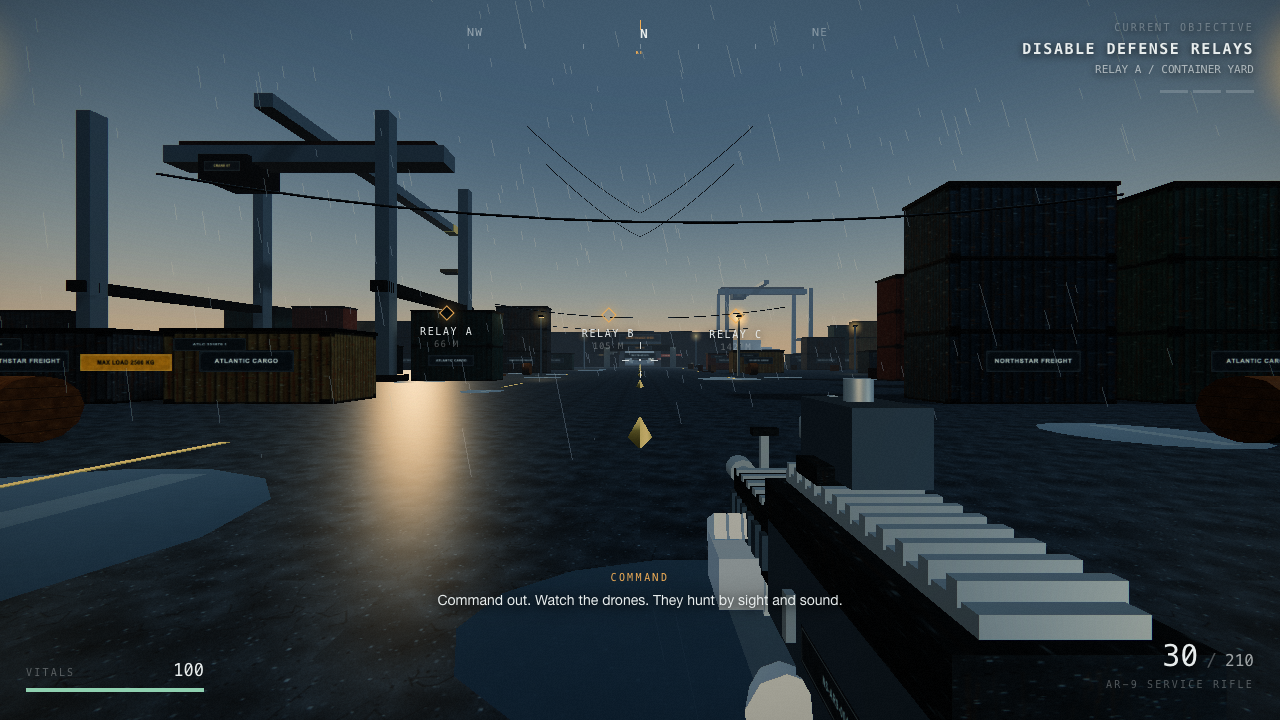
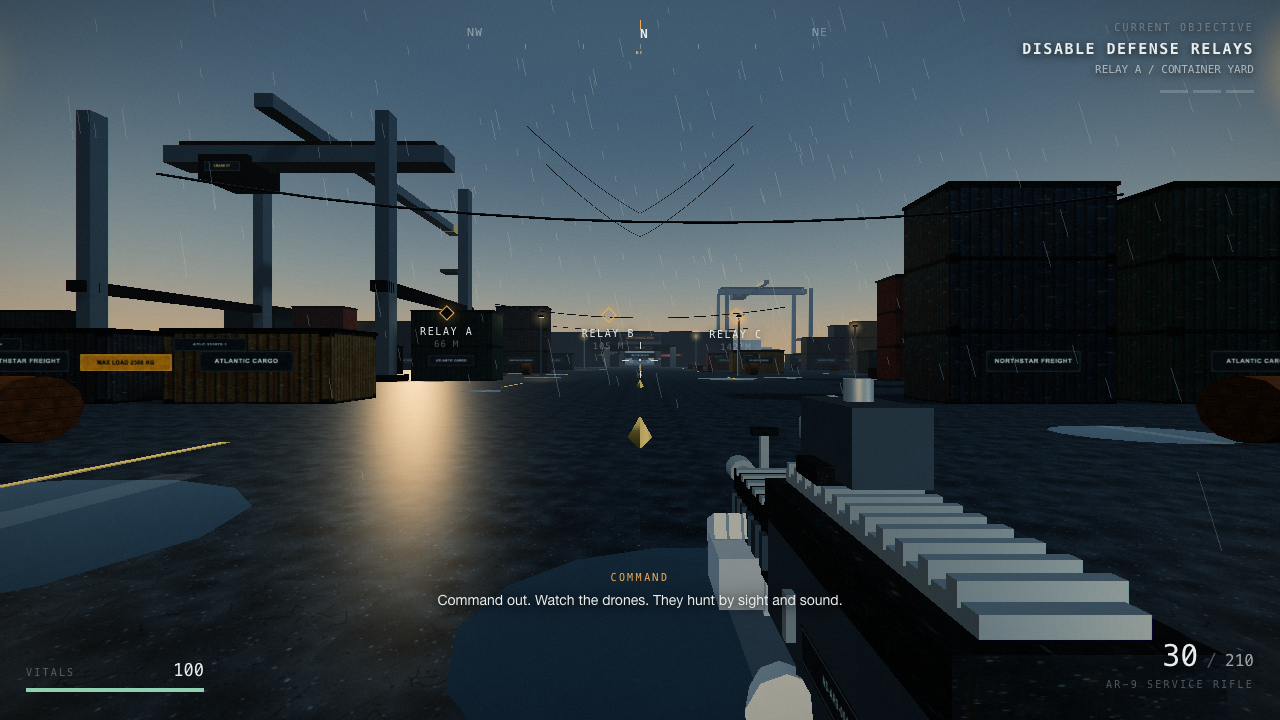
Adopt the MIT License for the original work

diff --git a/index.html b/index.html
@@ -2,6 +2,33 @@
 <html lang="en">
 <head>
 <!--
+PROJECT LICENSE - HARBOR BLACKOUT original code, text and generated assets.
+The full MIT License below is also shipped as LICENSE at the repository root.
+
+MIT License
+
+Copyright (c) 2026 topway-ai
+
+Permission is hereby granted, free of charge, to any person obtaining a copy
+of this software and associated documentation files (the "Software"), to deal
+in the Software without restriction, including without limitation the rights
+to use, copy, modify, merge, publish, distribute, sublicense, and/or sell
+copies of the Software, and to permit persons to whom the Software is
+furnished to do so, subject to the following conditions:
+
+The above copyright notice and this permission notice shall be included in all
+copies or substantial portions of the Software.
+
+THE SOFTWARE IS PROVIDED "AS IS", WITHOUT WARRANTY OF ANY KIND, EXPRESS OR
+IMPLIED, INCLUDING BUT NOT LIMITED TO THE WARRANTIES OF MERCHANTABILITY,
+FITNESS FOR A PARTICULAR PURPOSE AND NONINFRINGEMENT. IN NO EVENT SHALL THE
+AUTHORS OR COPYRIGHT HOLDERS BE LIABLE FOR ANY CLAIM, DAMAGES OR OTHER
+LIABILITY, WHETHER IN AN ACTION OF CONTRACT, TORT OR OTHERWISE, ARISING FROM,
+OUT OF OR IN CONNECTION WITH THE SOFTWARE OR THE USE OR OTHER DEALINGS IN THE
+SOFTWARE.
+-->
+
+<!--
 THIRD-PARTY NOTICE - three.js r149 (UMD build), MIT License.
 Bundled verbatim below. Original license also shipped in src/vendor/THREE_LICENSE.txt
 and THIRD_PARTY_NOTICES.md. All game code and generated art are original.

diff --git a/src/build.js b/src/build.js
@@ -13,6 +13,7 @@ const template = fs.readFileSync(path.join(srcDir, 'index.template.html'), 'utf8
 const css = fs.readFileSync(path.join(srcDir, 'styles.css'), 'utf8');
 const vendor = fs.readFileSync(path.join(srcDir, 'vendor', 'three.min.js'), 'utf8');
 const license = fs.readFileSync(path.join(srcDir, 'vendor', 'THREE_LICENSE.txt'), 'utf8');
+const projectLicense = fs.readFileSync(path.join(root, 'LICENSE'), 'utf8');
 
 const modules = fs.readdirSync(moduleDir)
   .filter(f => f.endsWith('.js'))
@@ -23,7 +24,17 @@ function assertNoClosingTag(code, name) {
   if (/<\/script/i.test(code)) throw new Error('Unsafe closing script tag in ' + name);
 }
 
+/* The single-file build is a standalone copy of the work, so it carries both
+   the project MIT notice and the verbatim third-party MIT notice. LICENSE at
+   the repository root is the single source of truth for the project text. */
 const notices = [
+  '<!--',
+  'PROJECT LICENSE - HARBOR BLACKOUT original code, text and generated assets.',
+  'The full MIT License below is also shipped as LICENSE at the repository root.',
+  '',
+  ...projectLicense.trimEnd().split('\n'),
+  '-->',
+  '',
   '<!--',
   'THIRD-PARTY NOTICE - three.js r149 (UMD build), MIT License.',
   'Bundled verbatim below. Original license also shipped in src/vendor/THREE_LICENSE.txt',

diff --git a/VALIDATION.md b/VALIDATION.md
@@ -6,10 +6,11 @@ extrapolated to hardware that was not tested.
 
 ## 1. Build and test environment
 
-- Deliverable: `index.html`, 844,866 bytes, produced by `node src/build.js`
+- Deliverable: `index.html`, 846,097 bytes, produced by `node src/build.js`
   from 15 readable source modules. It embeds CSS, the three.js UMD runtime,
-  all game code, all generated textures, WebAudio synthesis and the full MIT
-  notice. No build step is needed to play it.
+  all game code, all generated textures, WebAudio synthesis, the project MIT
+  notice and the verbatim three.js MIT notice. No build step is needed to
+  play it.
 - Host: macOS 26.5, arm64. Node.js v22.22.2 (development and QA tooling only).
 - Browser: Google Chrome 157.0.8103.78, driven headless by
   `playwright-core` 1.55.0.
@@ -29,7 +30,7 @@ extrapolated to hardware that was not tested.
 Command: `node tools/validate-language.js`
 
 Final run result: 36 files scanned (this report included), 292 catalog entries,
-8,641 quoted literals checked, 9 `String.fromCharCode()` constructions checked,
+8,661 quoted literals checked, 9 `String.fromCharCode()` constructions checked,
 0 violations, 0 unresolved literal catalog-key references.
 
 The static scan covers authored HTML, CSS, JS, JSON, SVG-like sources, Markdown
@@ -119,7 +120,9 @@ must not be read as hardware GPU frame rates.
 `HB.game.perf()` reports `avgFrameMs`, `avgFps`, `p95FrameMs`, `maxFrameMs`,
 the WebGL renderer string, quality tier and render resolution. The long
 maximum values are single startup or scene-build frames under software
-rendering. No 60 FPS result was measured and no frame rate is guaranteed on
+rendering. These figures vary substantially between runs on the software
+renderer; each row records one specific run rather than a stable average
+across runs. No 60 FPS result was measured and no frame rate is guaranteed on
 unspecified hardware. LOW quality is the intended mobile setting.
 
 ## 5. Screenshots reviewed
@@ -185,8 +188,7 @@ The machine-readable UI QA result is `screenshots/qa-report.json`.
   isolation, but was not benchmarked as a hosted service.
 - The attached reference HTML was treated as untrusted reference material
   only. No implementation code, text, brand, font stack or art from it was
-  copied or redistributed. No license is assigned to the original game code,
-  text and generated assets; that choice is left to the owner.
+  copied or redistributed. The original work is MIT licensed; see `LICENSE`.
 - The distribution targets modern desktop browsers with WebGL; an explicit
   WebGL-unavailable error screen is provided, but very old browsers and
   screen readers were not audited for full accessibility.
@@ -205,7 +207,7 @@ Checks actually executed against the live URL:
 | Check | Result |
 | --- | --- |
 | Pages API | `status: built`; latest build `status: built`, `error: null` |
-| HTTP GET of site root | 200, `text/html; charset=utf-8`, 844,866 bytes |
+| HTTP GET of site root | 200, `text/html; charset=utf-8`, 846,097 bytes |
 | SHA-256 of served `index.html` vs local build | identical |
 | HTTP GET of `/.nojekyll` | 200 |
 | `node tools/live-qa.js` | PASS: BOOT -> TITLE, `booted: true`, `lang="en"`, English document title, runtime audit 0 violations with 292 catalog entries, 0 non-ASCII visible characters, 3 relays, 109 colliders, 0 page/console errors, 0 external requests |
@@ -217,19 +219,24 @@ limits are soft limits that can pause serving or trigger a support email, not
 overage charges. GitHub Actions is free for public repositories. The only
 entry visible under Actions is GitHub's automatically generated
 `dynamic/pages/pages-build-deployment` job; its run timing API returned
-`billable.UBUNTU.total_ms: 0` across 3 jobs. No Git LFS, Codespaces, custom
+`billable.UBUNTU.total_ms: 0` for every job of every recorded build. No Git
+LFS, Codespaces, custom
 domain, CDN, paid add-on, secret or billing configuration was created. No
 tracked file exceeds 5 MB and the published site needs no recurring build;
 it is rebuilt only when the `main` branch is pushed.
 
-The repository is public and source-visible, but no `LICENSE` file is
-present: per the original requirement, no license is assigned to the original
-code, text or generated assets. Choosing one is left to the repository owner.
+The repository is public and source-visible. The original work is licensed
+under the MIT License (`LICENSE`, Copyright (c) 2026 topway-ai). The
+generated `index.html` embeds the same project notice. The bundled three.js
+runtime keeps its own MIT license and copyright, reproduced verbatim in
+`THIRD_PARTY_NOTICES.md`, `src/vendor/THREE_LICENSE.txt` and the bundle
+header.
 
 ## 9. Deliverables
 
 `index.html` (playable single-file build), `.nojekyll`, `.gitignore`,
-`README.md` (English), `THIRD_PARTY_NOTICES.md`, `VALIDATION.md` (this file),
-`src/` (readable sources, vendor runtime and original MIT license), `tools/`
-(development-only validation, QA and live-site scripts), `screenshots/`
-(selected QA screenshots and `qa-report.json`).
+`LICENSE` (MIT for the original work), `README.md` (English),
+`THIRD_PARTY_NOTICES.md`, `VALIDATION.md` (this file), `src/` (readable
+sources, vendor runtime and original MIT license), `tools/` (development-only
+validation, QA and live-site scripts), `screenshots/` (selected QA
+screenshots and `qa-report.json`).

diff --git a/README.md b/README.md
@@ -153,9 +153,11 @@ Rebuild the single-file distribution after editing a source module:
 node src/build.js
 ```
 
-The bundler writes `index.html` at the repository root, injects the third-party
-notice as an HTML comment, and keeps the vendor license verbatim. Only Node.js is
-needed for this optional step; the game itself does not need Node.js.
+The bundler writes `index.html` at the repository root, injects the project MIT
+notice and the verbatim third-party notice as HTML comments, and keeps the
+vendor license intact. `LICENSE` at the repository root is the source of the
+project notice. Only Node.js is needed for this optional step; the game itself
+does not need Node.js.
 
 ## Language
 
@@ -167,16 +169,20 @@ titles and document metadata. Base textures contain no lettering or logos. The
 document language is fixed to `en` and does not follow the browser locale.
 See `VALIDATION.md` for the checks actually performed and their limits.
 
-## Third-party software and license
+## License and third-party software
 
-The bundled runtime is three.js r149 (UMD build), MIT licensed. Its full license
-is reproduced in `THIRD_PARTY_NOTICES.md`, in `src/vendor/THREE_LICENSE.txt`,
-and as an HTML comment at the top of `index.html`. No other third-party code or
-assets are shipped. Generated textures, geometry and audio are produced at
-runtime by original code in this repository.
+The original game code, text, procedural textures, generated geometry and
+synthesized audio in this repository are licensed under the MIT License. See
+`LICENSE` for the full text. Copyright (c) 2026 topway-ai. The single-file
+`index.html` also embeds the project MIT notice, so a standalone copy of the
+game carries its license with it.
 
-No license is assigned to the original game code, text and generated assets in
-this repository; choosing one is left to the owner.
+The bundled runtime is three.js r149 (UMD build), also MIT licensed, with its
+own copyright held by the three.js authors. Its full license is reproduced in
+`THIRD_PARTY_NOTICES.md`, in `src/vendor/THREE_LICENSE.txt`, and as an HTML
+comment at the top of `index.html`. No other third-party code or assets are
+shipped. Generated textures, geometry and audio are produced at runtime by
+original code in this repository.
 
 ## Performance notes
 

diff --git a/THIRD_PARTY_NOTICES.md b/THIRD_PARTY_NOTICES.md
@@ -43,5 +43,8 @@ this project. The reference HTML file supplied with the request was treated as
 untrusted reference material only: no implementation, artwork, branding,
 lettering or other content from it is included in this distribution.
 
-No license is granted or assigned to the original work in this repository;
-that choice is left to the owner.
+The original game code, text, procedural textures, generated geometry and
+synthesized audio in this repository are licensed under the MIT License. See
+`LICENSE` at the repository root for the full project license text. The
+third-party notice reproduced above is separate, and its copyright remains
+with the three.js authors.
